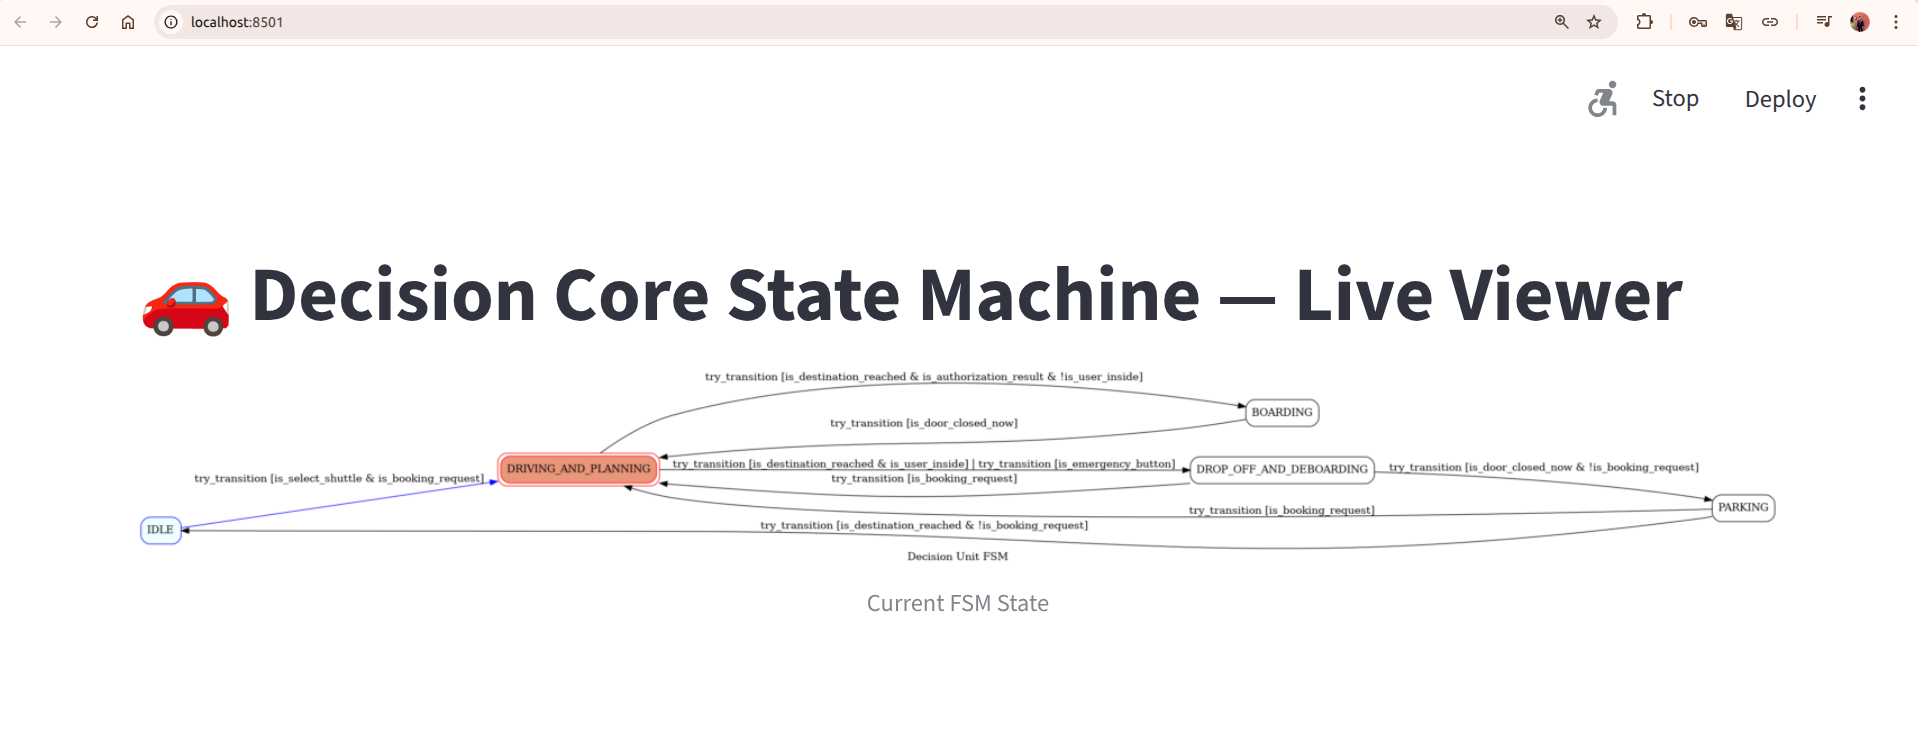
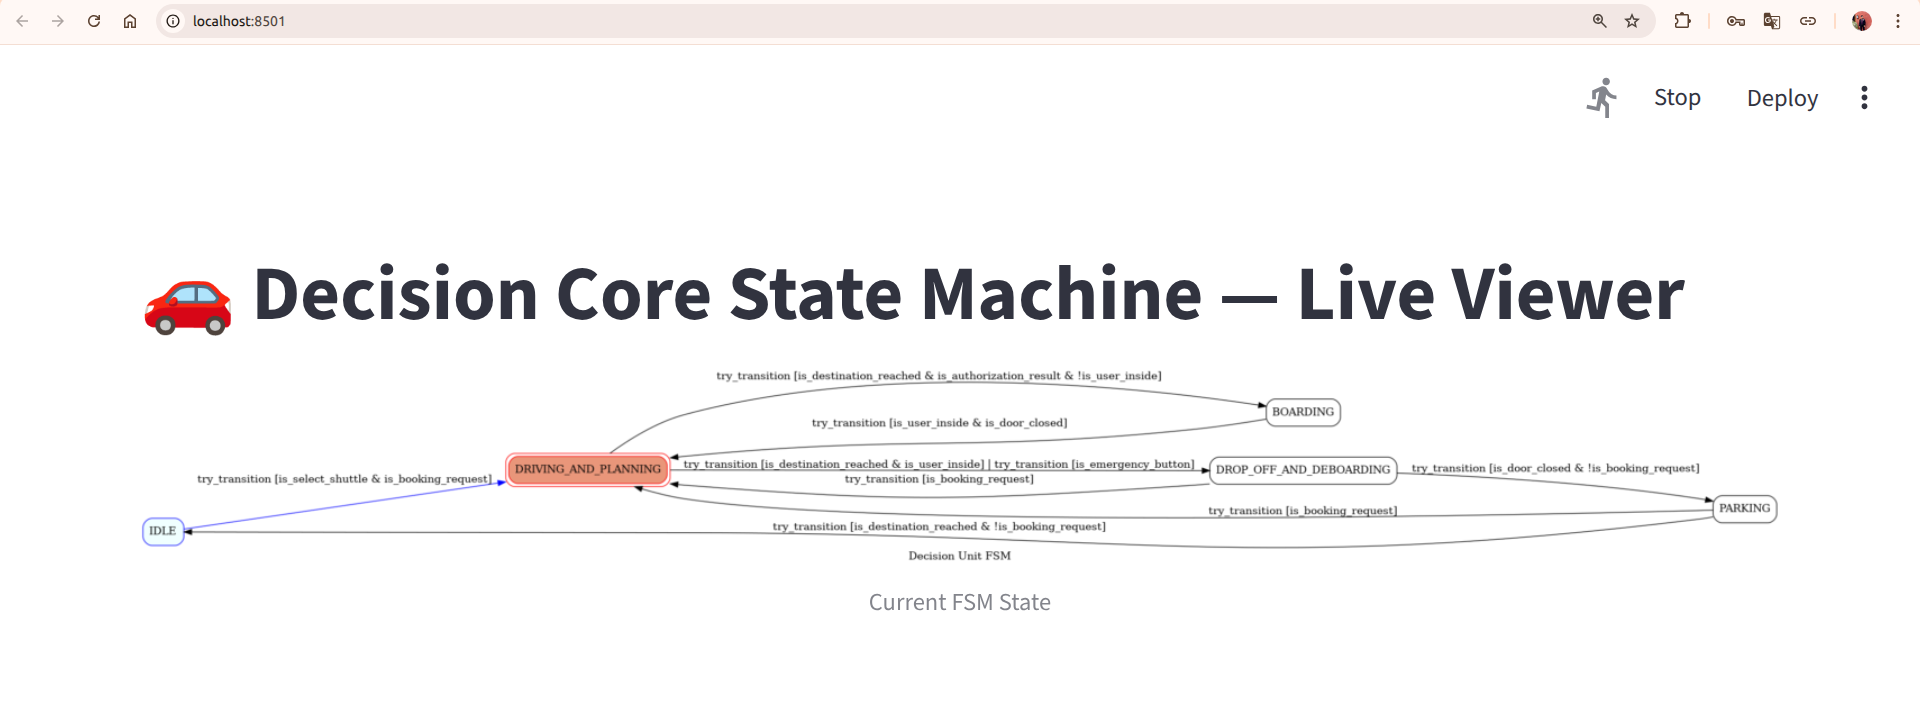
Updated README.md : updated interface(added new input /user_inside),updated state transition logic,updated livestate_visulization image,updated rqt image

diff --git a/README.md b/README.md
@@ -30,6 +30,7 @@ graph LR
         GF["/destination_reached"]:::grayEllipse
         AA["/door_status"]:::grayEllipse
         AB["/emergency_button"]:::grayEllipse
+        AC["/user_inside"]:::grayEllipse
 
     end
 
@@ -41,6 +42,7 @@ graph LR
     GF --> EM
     AA --> EM
     AB --> EM
+    AC --> EM
     EM --> DC
     EM --> BF
 
@@ -66,6 +68,7 @@ graph LR
     class GF soft_rectangle;
     class AA soft_rectangle;
     class AB soft_rectangle;
+    class Ac soft_rectangle;
 
     class DC soft_rectangle;
     class BF soft_rectangle;
@@ -81,6 +84,7 @@ graph LR
 | `/booking_request`         | Input   | `std_msgs/msg/Bool.msg`      | Provides a boolean indicating whether a booking request has been made.`(Booking received(True)and Booking not received(False)).`                 |
 | `/authorization_result`           | Input  | `std_msgs/msg/Bool.msg`      |Provides a boolean indicating whether the user is `authorized(True) or not authorized(False).`  |
 | `/destination_reached`        | Input   | `std_msgs/msg/Bool.msg`      |Provides a boolean indicating whether the shuttle has reached the destination. `(Destination reached(True) and not reached(False)).`|
+| `/user_inside`         | Input   | `std_msgs/msg/Bool.msg`      | Provides a boolean indicating whether the user is `inside(True)` the shuttle or `not(False).` |
 | `/door_status`         | Input   | `std_msgs/msg/Bool.msg`      | Provides the status of the shuttle doors open(True) or close(False). |
 | `/emergency_button`           | Input  | `std_msgs/msg/Bool.msg`      |Provides a boolean indicating whether the emergency button has been `pressed(True) or not(False).`    |
 | `/shuttle_confirmation`           | Output  | `std_msgs/msg/Bool.msg`      | 	Publishes whether the shuttle is confirmed for a ride `(shuttle confirmed(True) and not confirmed(False)).`|
@@ -90,11 +94,11 @@ graph LR
 | Trigger (Conditions)                         | From State           | To State                 | Action                                                              |
 |------------------------------|-------------|----------------------|--------------------------------------------------------------------------|
 | `/select_shuttle = 4` and `/booking_request = True`        | IDLE   | DRIVING AND PLANNING      |  1. Publish `/state = 1` (DRIVING AND PLANNING). <br> 2. Publish `/shuttle_confirmation = True` to server. <br>3. Keep DRIVING AND PLANNING state until booking_request becomes False from server. <br> 4. Once booking_request is False, publish /`shuttle_confirmation = False` to server.    |
-| `/user_auhtorization = True`  and `/destination_reached = True`      | DRIVING AND PLANNING   | BOARDING     | 1. Publish `/state = 2` (BOARDING).   <br>    2. Monitor door status to detect when the door first opened and then closed.          |
-| `/door_status = True` and then `/door_status = False`          | BOARDING  | DRIVING AND PLANNING      |1. Publish `/state = 1` (DRIVING AND PLANNING).  |
-| `/destination_reached = True`        | DRIVING AND PLANNING   | DROPOFF AND DEBOARDING      |1. Publish `/state = 3` (DROPOFF AND DEBOARDING).<br> 2. Monitor door status to detect when the door first opened and then closed.  |
-| `/emergency_button = True`         | DRIVING AND PLANNING   | DROPOFF AND DEBOARDING      | 1. Publish `/state = 3` (DROPOFF AND DEBOARDING).<br> 2. Monitor door status to detect when the door first opened and then closed.|
-| `/door_status = True and then /door_status = False` and `/booking_request = False`           | DROPOFF AND DEBOARDING  | PARKING      | 1. Publish `/state = 4` (PARKING)    |
+| `/user_auhtorization = True`  and `/destination_reached = True` and `/user_inside = False`      | DRIVING AND PLANNING   | BOARDING     | 1. Publish `/state = 2` (BOARDING).            |
+| `/user_inside = True` and `/door_status = False`          | BOARDING  | DRIVING AND PLANNING      |1. Publish `/state = 1` (DRIVING AND PLANNING).  |
+| `/user_inside = True` and `/destination_reached = True`       | DRIVING AND PLANNING   | DROPOFF AND DEBOARDING      |1. Publish `/state = 3` (DROPOFF AND DEBOARDING).
+| `/emergency_button = True`         | DRIVING AND PLANNING   | DROPOFF AND DEBOARDING      | 1. Publish `/state = 3` (DROPOFF AND DEBOARDING).
+| `/door_status = False` and `/booking_request = False`           | DROPOFF AND DEBOARDING  | PARKING      | 1. Publish `/state = 4` (PARKING)    |
 | `/booking_request = True`           | DROPOFF AND DEBOARDING  | DRIVING AND PLANNING      | 	1. Publish `/state = 1` (DRIVING AND PLANNING). <br> 2. Publish `/shuttle_confirmation = True` to server. <br>3. Keep DRIVING AND PLANNING state until booking_request becomes False from server. <br> 4. Once booking_request is False, publish /`shuttle_confirmation = False` to server.   |
 | `/destination_reached = True` and `/booking_request = False`           | PARKING  | IDLE        | 	1. Publish `/state = 0` (IDLE).|
 | `/booking_request = True`           | PARKING  | DRIVING AND PLANNING        | 	1. Publish `/state = 1` (DRIVING AND PLANNING). <br> 2. Publish `/shuttle_confirmation = True` to server. <br>3. Keep DRIVING AND PLANNING state until booking_request becomes False from server. <br> 4. Once booking_request is False, publish /`shuttle_confirmation = False` to server.  |
@@ -107,27 +111,27 @@ Process for testing the above interfaces can be found [here](interface_test.md).
 
 
 ## 🎯 User Stories 
-[US 2.3](https://miro.com/app/board/uXjVI9mh4O0=/?moveToWidget=3458764647163753676&cot=14): State transion from IDLE to DRIVING AND PLANNING
+[US 2.3](https://miro.com/app/board/uXjVI9mh4O0=/?moveToWidget=3458764647567204081&cot=14): State transion from IDLE to DRIVING AND PLANNING
 
-[US 3.19](https://miro.com/app/board/uXjVI9mh4O0=/?moveToWidget=3458764647165097962&cot=14) : State transion from DRIVING AND PLANNING to BOARDING
+[US 3.19](https://miro.com/app/board/uXjVI9mh4O0=/?moveToWidget=3458764647567204082&cot=14) : State transion from DRIVING AND PLANNING to BOARDING
 
-[US 5.1](https://miro.com/app/board/uXjVI9mh4O0=/?moveToWidget=3458764647166347143&cot=14) : State transion from BOARDING to DRIVING AND PLANNING
+[US 5.1](https://miro.com/app/board/uXjVI9mh4O0=/?moveToWidget=3458764647567204084&cot=14) : State transion from BOARDING to DRIVING AND PLANNING
 
-[US 3.20](https://miro.com/app/board/uXjVI9mh4O0=/?moveToWidget=3458764647166887321&cot=14) : State transion from DRIVING AND PLANNING to DROPOFF AND DEBOARDING
+[US 3.20](https://miro.com/app/board/uXjVI9mh4O0=/?moveToWidget=3458764647567204085&cot=14) : State transion from DRIVING AND PLANNING to DROPOFF AND DEBOARDING
 
-[US 7.1](https://miro.com/app/board/uXjVI9mh4O0=/?moveToWidget=3458764647167520276&cot=14) : State transion from DROPOFF AND DEBOARDING to PARKING
+[US 7.1](https://miro.com/app/board/uXjVI9mh4O0=/?moveToWidget=3458764647567204087&cot=14) : State transion from DROPOFF AND DEBOARDING to PARKING
 
-[US 8.1](https://miro.com/app/board/uXjVI9mh4O0=/?moveToWidget=3458764647168209098&cot=14): State transion from PARKING to IDLE
+[US 8.1](https://miro.com/app/board/uXjVI9mh4O0=/?moveToWidget=3458764647567204088&cot=14): State transion from PARKING to IDLE
 
-[US 7.2](https://miro.com/app/board/uXjVI9mh4O0=/?moveToWidget=3458764647172377638&cot=14) : State transion from DROPOFF AND DEBOARDING to DRIVING AND PLANNING(New booking received during DROPOFF AND DEBOARDING)
+[US 7.2](https://miro.com/app/board/uXjVI9mh4O0=/?moveToWidget=3458764647567204090&cot=14) : State transion from DROPOFF AND DEBOARDING to DRIVING AND PLANNING(New booking received during DROPOFF AND DEBOARDING)
 
-[US 8.2](https://miro.com/app/board/uXjVI9mh4O0=/?moveToWidget=3458764647172805030&cot=14) : State transion from PARKING to DRIVING AND PLANNING(New booking received during PARKING)
+[US 8.2](https://miro.com/app/board/uXjVI9mh4O0=/?moveToWidget=3458764647567204091&cot=14) : State transion from PARKING to DRIVING AND PLANNING(New booking received during PARKING)
 
 ## 🛠 Installation
 First, open terminal and install transitions framework and Streamlit(for real-time state visualization).
 ```bash
-pip install transitions
-pip install streamlit
+pip3 install transitions
+pip3 install streamlit
 ```
 1. Create workspace, src and go to src
 ```bash
@@ -140,12 +144,12 @@ cd src
 ```bash
 git https://git.hs-coburg.de/pax_auto/decision_core.git
 ```
-5. Return to workspace and build the package
+3. Return to workspace and build the package
 ```bash
 cd ..
 colcon build --packages-select decision_core
 ```
-6. Source the setup files
+4. Source the setup files
 ```bash
 source install/setup.bash
 ```
